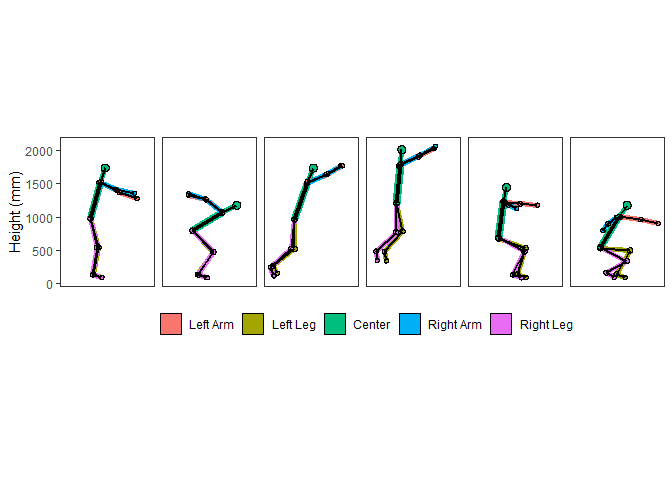
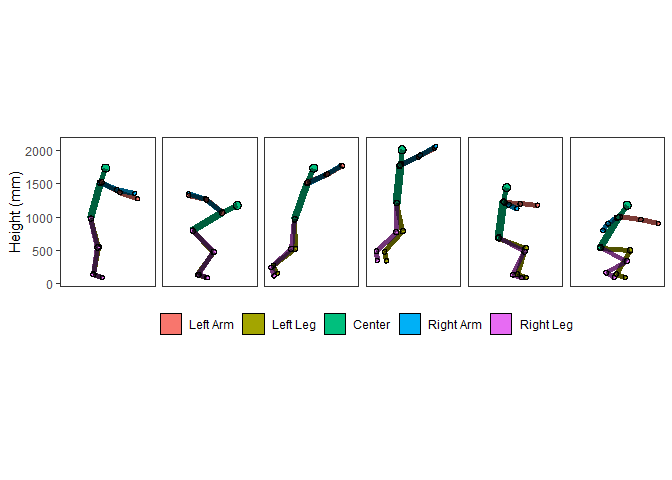
Update README.rmd + knit

diff --git a/README.md b/README.md
@@ -15,17 +15,17 @@ status](https://ci.appveyor.com/api/projects/status/github/steenharsted/mocapr?b
 
 The goal of `mocapr` is to provide researchers or clinicians with R
 functions that can import, plot, animate, and analyse motion capture
-data. The package is in **the very early experimental stages of
-development** and is only **minimally effective** in the sense that it,
-currently, only supports import from [the
-Captury](http://thecaptury.com/) system.
+data. The package is in**the early experimental stages of development**.
 
-It should be possible to wrangle motion capture data from other systems
-into a format that will allow usage of the functions in this package, as
-long as the data contains frame by frame joint center positions. If you
-have such motion capture data from other systems, and if you are willing
-to share some sample data, I will be happy to make an attempt at writing
-an import function and include both the function and the sample data in
+`mocapr`, currently, supports import from [the
+Captury](http://thecaptury.com/) system, but is capable of working with
+motioncapture data from other systems as long as the data contain frame
+by frame global spatial joint-center positions. If the data contains
+these positions it is possible to wrangle the data into a format that
+will allow usage of the functions in this package. If you have such
+motion capture data from other systems, and if you are willing to share
+some sample data, I will be happy to make an attempt at writing an
+import function and include both the function and the sample data in
 this package.
 
 `mocapr` uses a series of tidyverse packages to import
@@ -359,8 +359,6 @@ jump_2 %>%
                      use_geom_point = FALSE, 
                      planes_in_rows_or_cols = c("cols"), 
                      col_facets = frame,
-                     line_black_size = 1,
-                     line_black_alpha = 1,
                      return_plot = TRUE)
 ```
 
